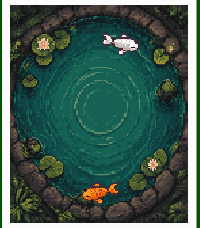
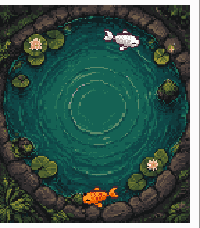
Fix pond fill and keep koi swimming inside the water.

diff --git a/src/pkjs/config.js b/src/pkjs/config.js
@@ -70,7 +70,7 @@ module.exports = [
       {
         type: 'slider',
         messageKey: 'RingInset',
-        label: 'Swim ring inset (px from edge)',
+        label: 'Swim tighter (inside water)',
         defaultValue: 18,
         min: 8,
         max: 40,

diff --git a/tools/generate_store_screenshots.py b/tools/generate_store_screenshots.py
@@ -179,27 +179,20 @@ def render(w: int, h: int, color: bool, scene: dict) -> Image.Image:
     pond = Image.open(POND).convert("RGBA")
     if not color:
         pond = to_bw(pond).convert("RGBA")
-        # Flatten grey pond onto black for B&W screens.
         flat = Image.new("RGBA", pond.size, (0, 0, 0, 255))
         flat.paste(pond, (0, 0), pond)
         pond = flat
 
-    scale = min(w / 144.0, h / 168.0)
-    if abs(scale - 1.0) > 0.01:
-        pw = max(1, int(round(144 * scale)))
-        ph = max(1, int(round(168 * scale)))
-        pond = pond.resize((pw, ph), Image.NEAREST)
-    else:
-        pw, ph = pond.size
-
-    ox = (w - pw) // 2
-    oy = (h - ph) // 2
-    img.paste(pond.convert("RGB"), (ox, oy))
+    # Match watchface: stretch pond to fill the whole display.
+    pond = pond.resize((w, h), Image.NEAREST)
+    img.paste(pond.convert("RGB"), (0, 0))
 
     cx, cy = w // 2, h // 2
-    max_r = min(w, h) // 2
-    radius = max(20, max_r - int(scene["ring_inset"] * scale))
-    koi_scale = scale
+    half = min(w, h) // 2
+    water_r = (half * 58) // 72
+    radius = water_r - (int(scene["ring_inset"]) - 18)
+    radius = max(20, min(radius, water_r))
+    koi_scale = min(w / 144.0, h / 168.0)
 
     hour_angle = ((scene["hour"] % 12) * 30) + (scene["minute"] // 2)
     minute_angle = scene["minute"] * 6
@@ -208,7 +201,7 @@ def render(w: int, h: int, color: bool, scene: dict) -> Image.Image:
     draw = ImageDraw.Draw(img)
     if scene["show_seconds"]:
         sx, sy = clock_point(cx, cy, radius, second_angle)
-        r = max(2, int(round(3 * scale)))
+        r = max(2, int(round(3 * koi_scale)))
         fill = ISLAMIC_GREEN if color else WHITE
         draw.ellipse((sx - r, sy - r, sx + r, sy + r), fill=fill, outline=BLACK)
 

diff --git a/src/c/face.c b/src/c/face.c
@@ -61,28 +61,30 @@ static void format_date(char *buf, size_t n) {
   snprintf(buf, n, "%s %d %s", DOW[s_wday % 7], s_mday, MON[s_mon % 12]);
 }
 
+// Pond art is authored at 144x168; water rim sits ~58px from center (half=72).
+#define POND_ART_HALF 72
+#define POND_WATER_R 58
+
 static void update_proc(Layer *layer, GContext *ctx) {
   GRect bounds = layer_get_bounds(layer);
   const FaceSettings *cfg = settings_get();
 
-  // Fill with deep pond teal in case the bitmap doesn't cover emery.
   graphics_context_set_fill_color(ctx, GColorDarkGreen);
   graphics_fill_rect(ctx, bounds, 0, GCornerNone);
 
+  // Stretch pond to fill the whole display so koi never swim in the margin.
   if (s_pond) {
-    GSize psz = gbitmap_get_bounds(s_pond).size;
-    GRect dest = GRect(
-        (bounds.size.w - psz.w) / 2,
-        (bounds.size.h - psz.h) / 2,
-        psz.w, psz.h);
     graphics_context_set_compositing_mode(ctx, GCompOpAssign);
-    graphics_draw_bitmap_in_rect(ctx, s_pond, dest);
+    graphics_draw_bitmap_in_rect(ctx, s_pond, bounds);
   }
 
   GPoint center = GPoint(bounds.size.w / 2, bounds.size.h / 2);
-  int max_r = (bounds.size.w < bounds.size.h ? bounds.size.w : bounds.size.h) / 2;
-  int radius = max_r - cfg->ring_inset;
+  int half = (bounds.size.w < bounds.size.h ? bounds.size.w : bounds.size.h) / 2;
+  // Scale the water rim to this screen, then apply Clay inset from that rim.
+  int water_r = (half * POND_WATER_R) / POND_ART_HALF;
+  int radius = water_r - (cfg->ring_inset - 18);
   if (radius < 20) radius = 20;
+  if (radius > water_r) radius = water_r;
 
   // Clock angles: 0° at 12, clockwise.
   int hour_angle = ((s_hour % 12) * 30) + (s_minute / 2);

diff --git a/src/c/settings.h b/src/c/settings.h
@@ -16,7 +16,7 @@ typedef struct {
   bool show_date;
   bool show_seconds;
   bool swim_clockwise;
-  int ring_inset;  // pixels from screen edge to swim radius
+  int ring_inset;  // higher = swim tighter inside the water (default 18)
 } FaceSettings;
 
 typedef void (*SettingsChangedFn)(void);
